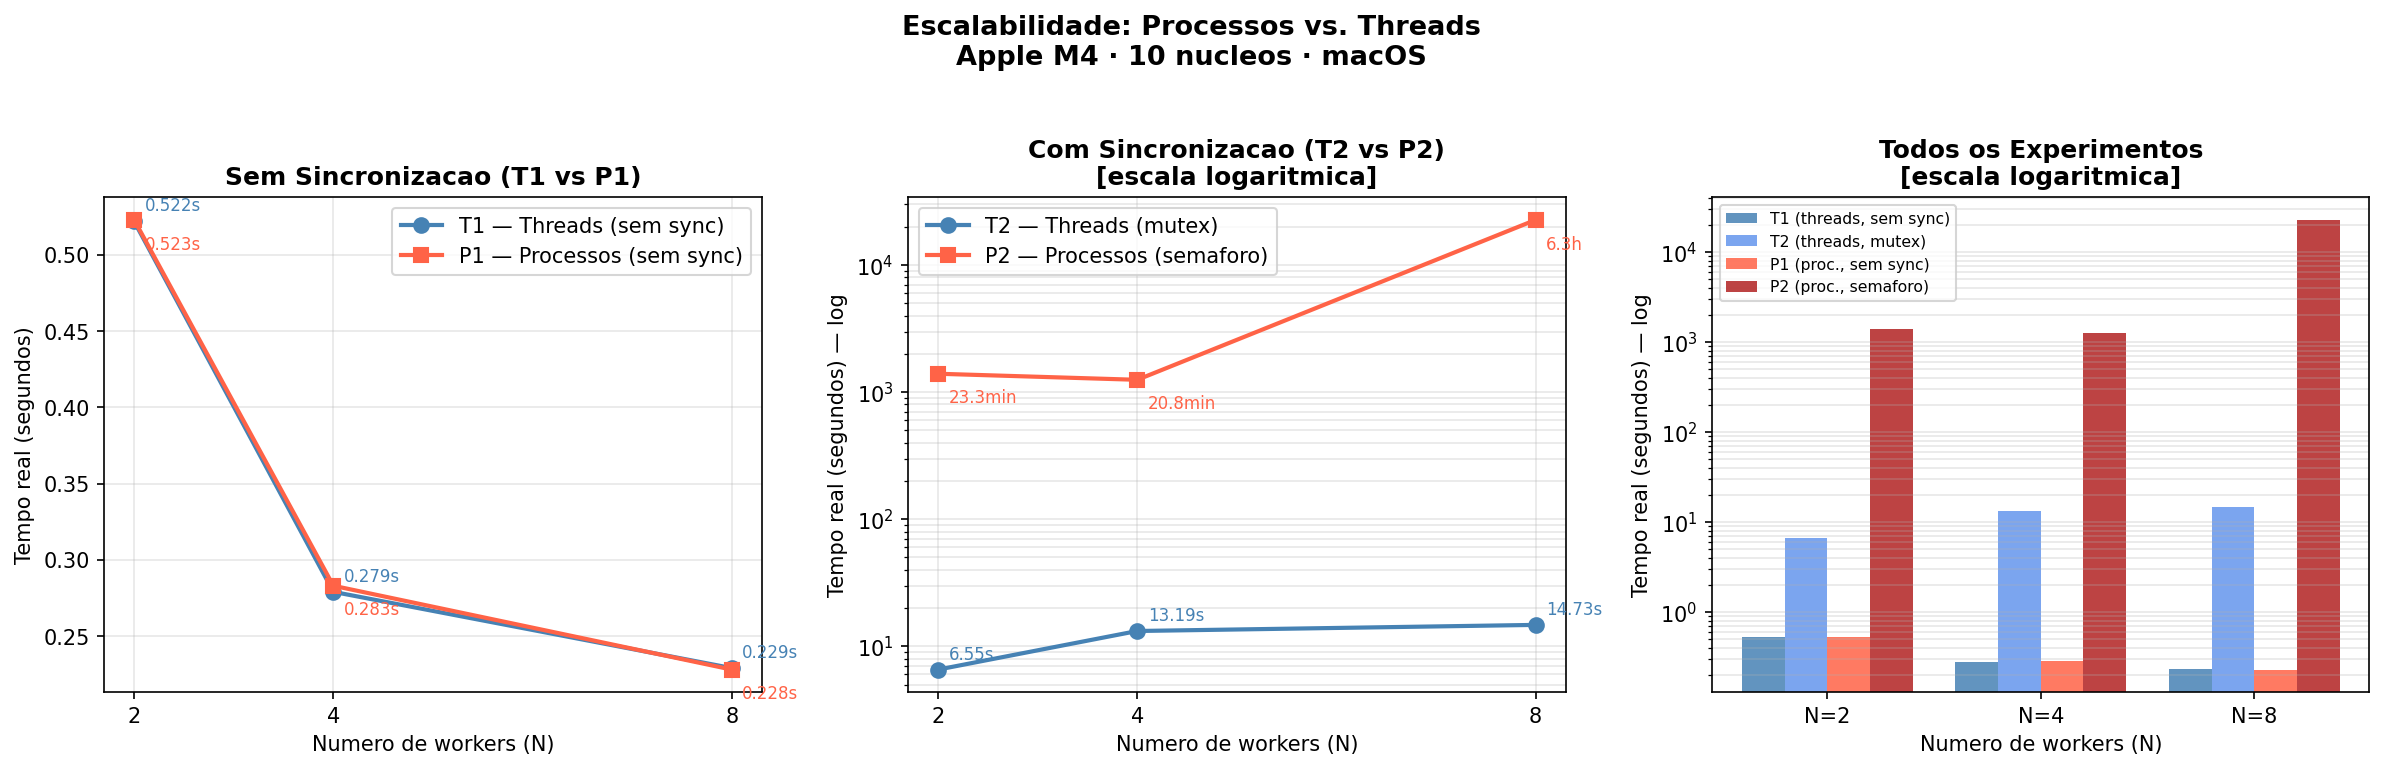
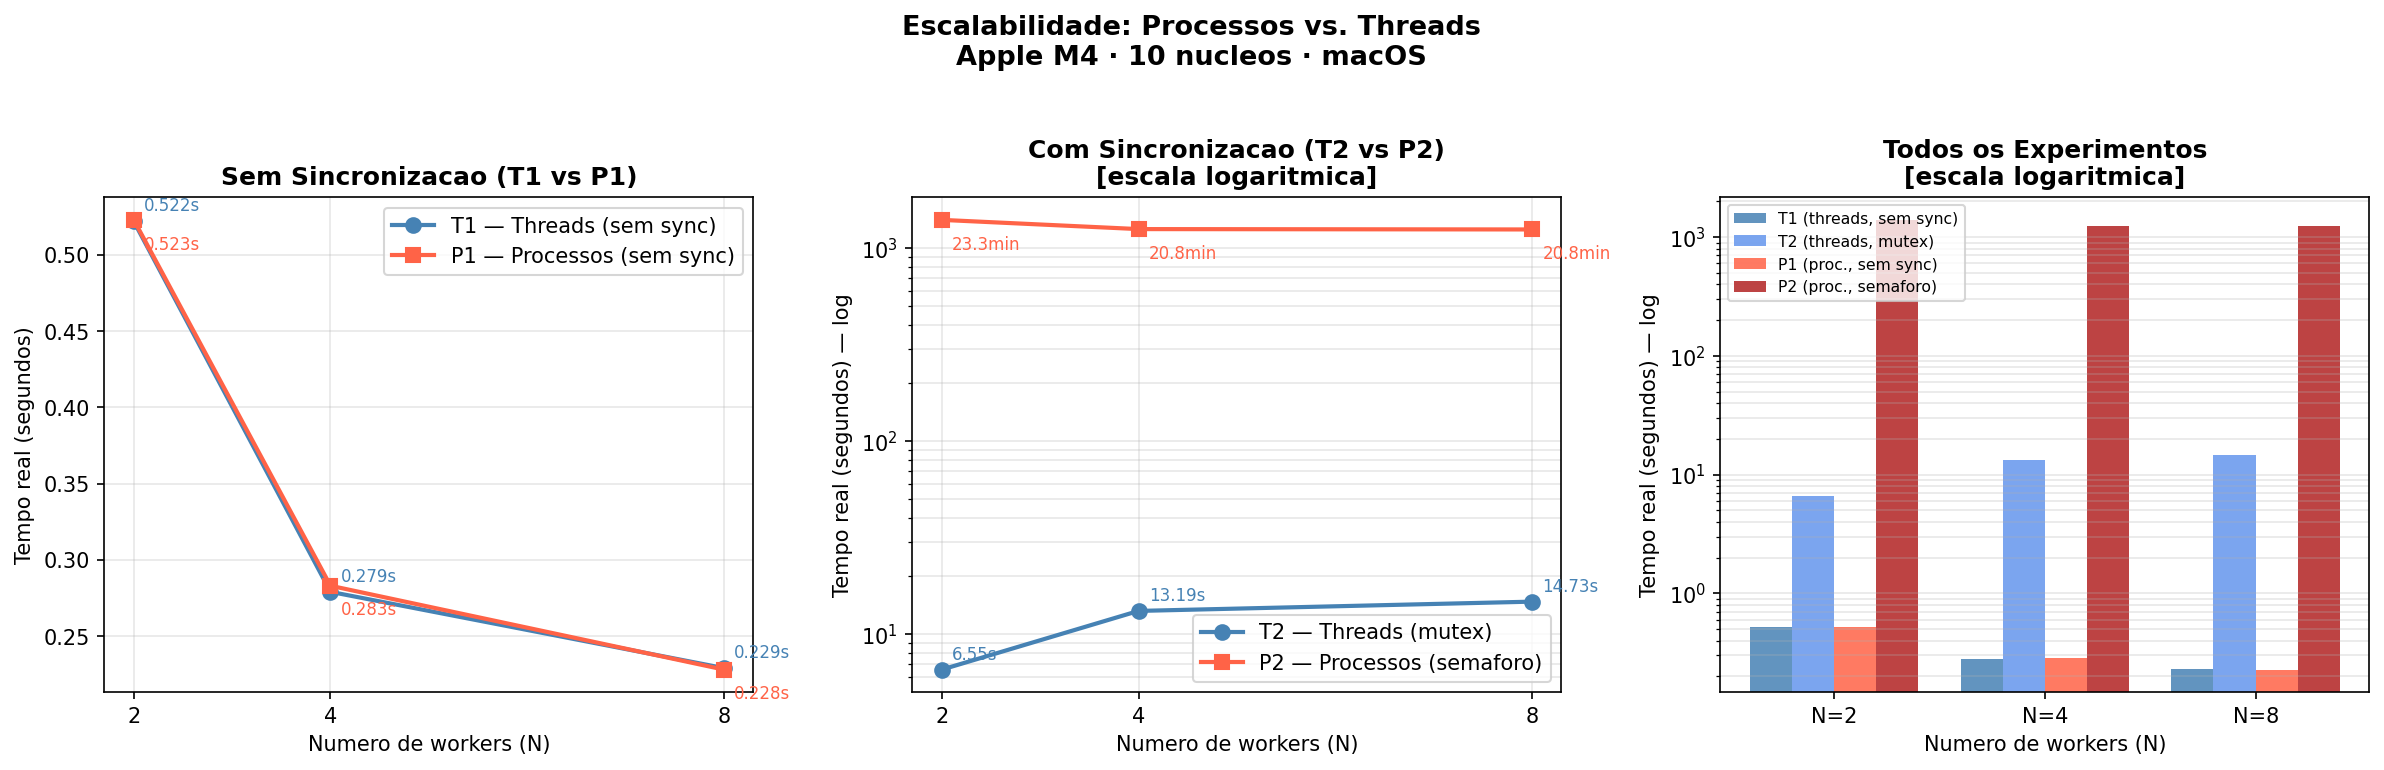
graficos

diff --git a/T1--Sisop-main/T1-Sisop/grafico.py b/T1--Sisop-main/T1-Sisop/grafico.py
@@ -15,7 +15,7 @@ N = [2, 4, 8]
 T1 = [0.522, 0.279, 0.229]   # threads sem mutex
 T2 = [6.551, 13.185, 14.728] # threads com pthread_mutex
 P1 = [0.523, 0.283, 0.228]   # processos sem semaforo
-P2 = [1395.57, 1250.52, 22681.46]  # processos com sem_open
+P2 = [1395.57, 1250.52, 1245.08]  # processos com sem_open
 
 # --------------------------------------------------------------------------
 # Grafico 1: Escala linear — T1 e P1 (experimentos sem sincronizacao)
